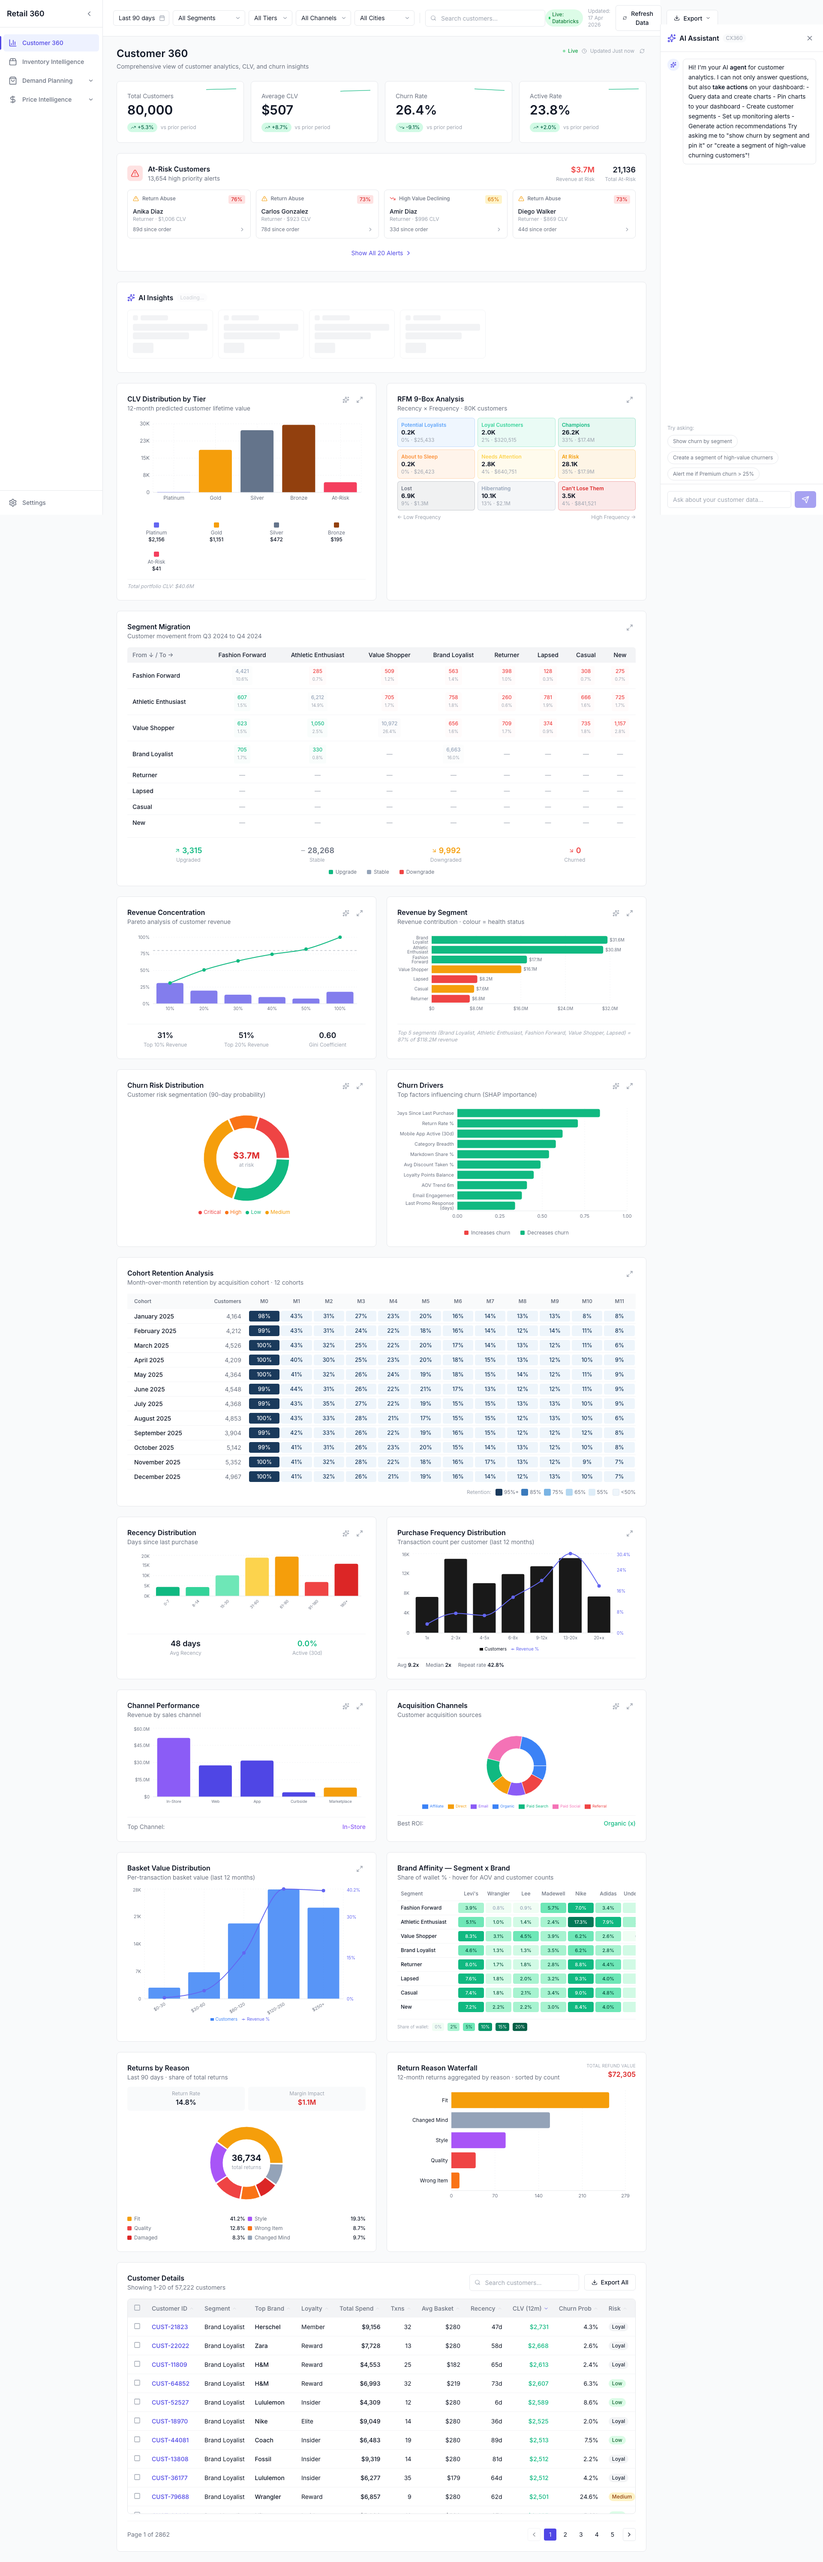
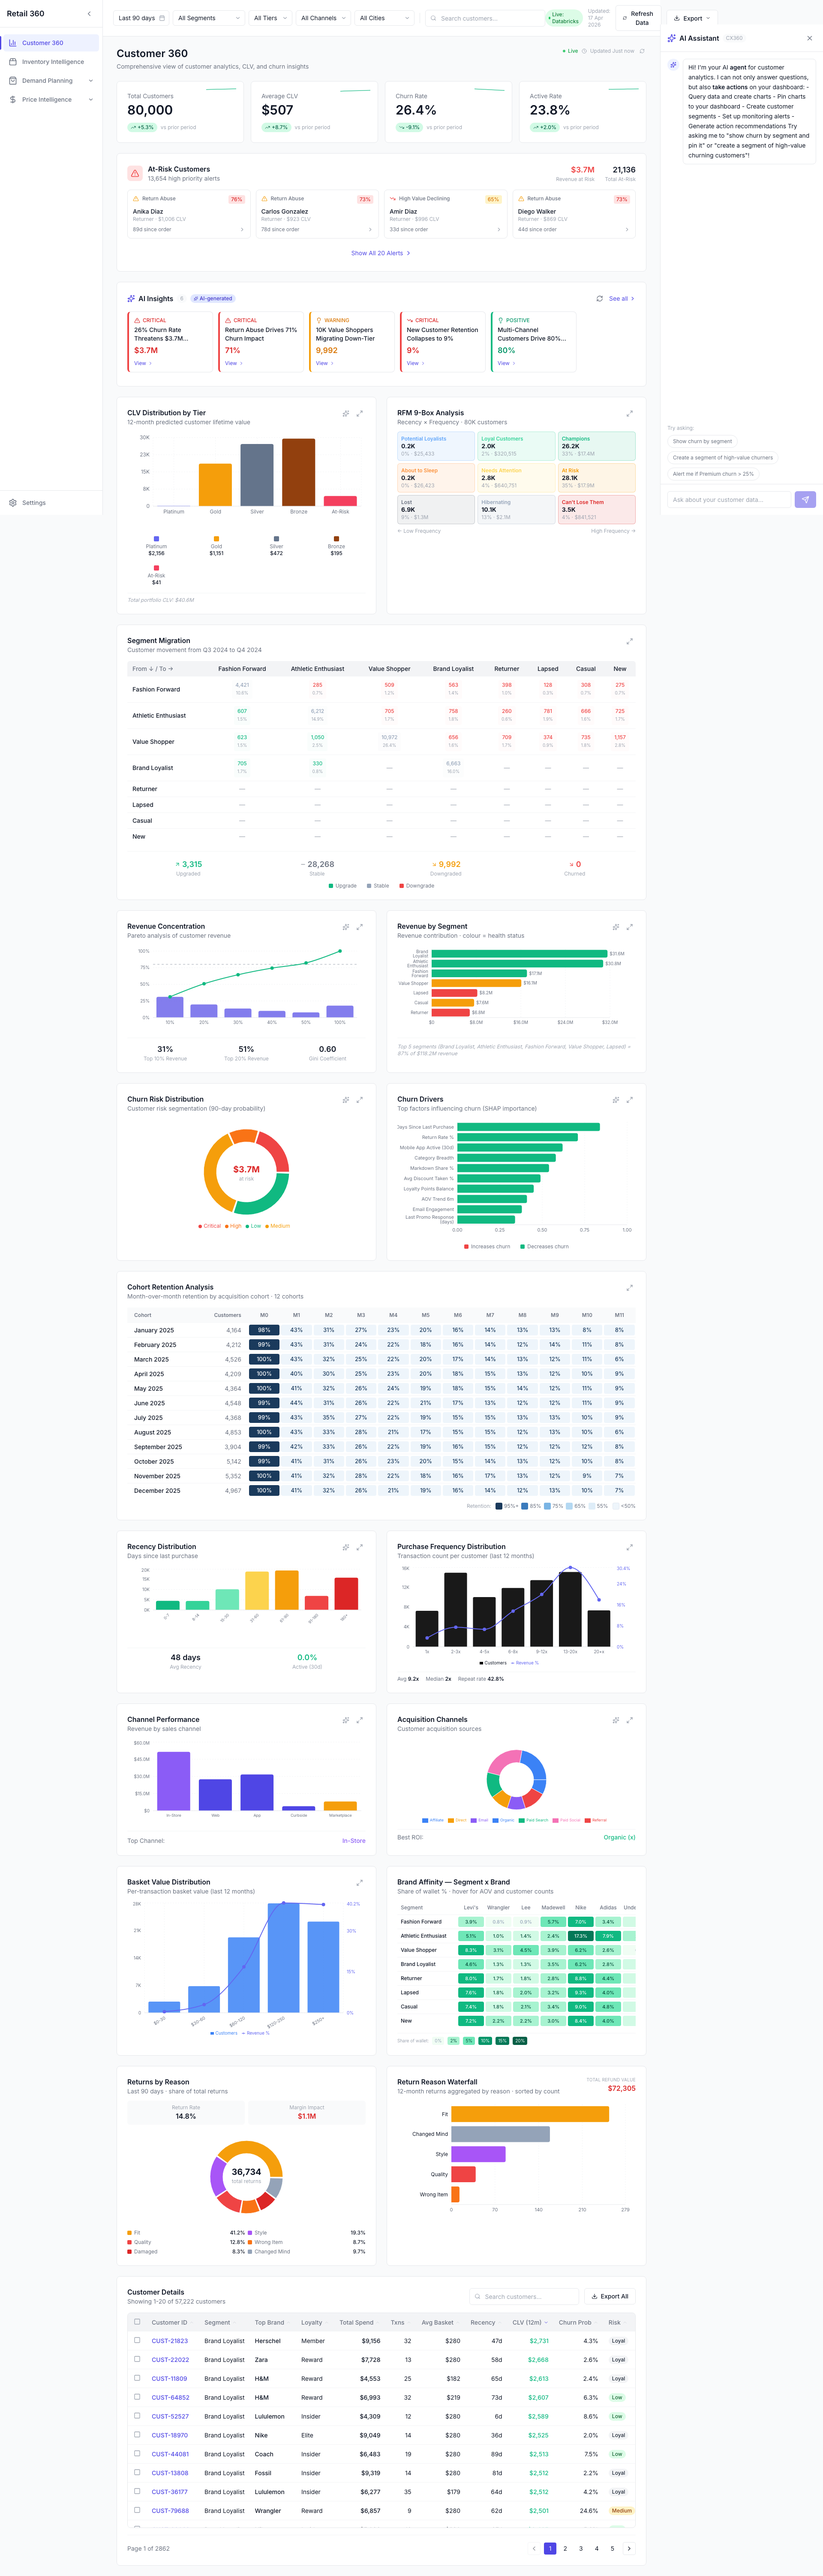
fix(apparel): eliminate ₹ leaks — regen insights, ColdstartCostOfMAPE + StockHealth insight tenant-aware

diff --git a/src/app/merchandise/cold-start/components/ColdstartCostOfMAPE.tsx b/src/app/merchandise/cold-start/components/ColdstartCostOfMAPE.tsx
@@ -13,12 +13,20 @@ import {
 import ChartCard from '@/app/components/charts/ChartCard';
 import type { ColdstartCostOfMAPE } from '@/app/lib/coldstart-types';
 import { formatMoneyPlainAuto, getLocaleAuto } from '@/app/lib/format-money';
+import { getRuntimeTenant } from '@/app/lib/tenant-runtime';
+import { useTenant } from '@/app/context/TenantContext';
 
 interface Props {
   data: ColdstartCostOfMAPE;
 }
 
 function formatINR(n: number): string {
+  const isApparel = getRuntimeTenant() === 'us_apparel';
+  if (isApparel) {
+    if (n >= 1e6) return `$${(n / 1e6).toFixed(2)}M`;
+    if (n >= 1e3) return `$${(n / 1e3).toFixed(1)}K`;
+    return `$${n.toLocaleString(getLocaleAuto())}`;
+  }
   if (n >= 1e7) return `₹${(n / 1e7).toFixed(1)}Cr`;
   if (n >= 1e5) return `₹${(n / 1e5).toFixed(1)}L`;
   return `₹${n.toLocaleString(getLocaleAuto())}`;
@@ -59,6 +67,7 @@ const CustomTooltip = ({
 };
 
 export default function ColdstartCostOfMAPE({ data }: Props) {
+  const { isApparel } = useTenant();
   const { naive_costs, champion_costs, savings, pr_projection, weekly_breakdown } = data;
   const rate = pr_projection.exchange_rate_inr_per_usd;
 
@@ -108,8 +117,8 @@ export default function ColdstartCostOfMAPE({ data }: Props) {
                 <tr className="bg-[var(--bg-secondary)] border-b border-[var(--border-default)]">
                   <th className="text-left px-3 py-2 text-[var(--text-secondary)] font-medium">Model</th>
                   <th className="text-right px-3 py-2 text-[var(--text-secondary)] font-medium">MAPE</th>
-                  <th className="text-right px-3 py-2 text-[var(--text-secondary)] font-medium">Cost (INR)</th>
-                  <th className="text-right px-3 py-2 text-[var(--text-secondary)] font-medium">Cost (USD)</th>
+                  <th className="text-right px-3 py-2 text-[var(--text-secondary)] font-medium">{isApparel ? 'Cost' : 'Cost (INR)'}</th>
+                  {!isApparel && <th className="text-right px-3 py-2 text-[var(--text-secondary)] font-medium">Cost (USD)</th>}
                 </tr>
               </thead>
               <tbody>
@@ -128,9 +137,11 @@ export default function ColdstartCostOfMAPE({ data }: Props) {
                     <td className={`px-3 py-2.5 text-right font-mono font-semibold ${row.colorClass}`}>
                       {formatINR(row.inr)}
                     </td>
-                    <td className="px-3 py-2.5 text-right font-mono text-[var(--text-secondary)]">
-                      {formatUSD(row.inr, rate)}
-                    </td>
+                    {!isApparel && (
+                      <td className="px-3 py-2.5 text-right font-mono text-[var(--text-secondary)]">
+                        {formatUSD(row.inr, rate)}
+                      </td>
+                    )}
                   </tr>
                 ))}
               </tbody>
@@ -199,7 +210,7 @@ export default function ColdstartCostOfMAPE({ data }: Props) {
         <ChartCard
           id="coldstart-cost-of-mape-projection"
           title="PR Projection"
-          subtitle={`Extrapolated to ₹100Cr revenue · @₹${rate}=$1`}
+          subtitle={isApparel ? 'Extrapolated to $1B revenue' : `Extrapolated to ₹100Cr revenue · @₹${rate}=$1`}
           height={470}
           exportFilename="coldstart_cost_mape_projection"
         >
@@ -211,7 +222,7 @@ export default function ColdstartCostOfMAPE({ data }: Props) {
                 ${(pr_projection.projected_savings_usd / 1000).toFixed(0)}K
               </p>
               <p className="text-emerald-600 text-[11px] mt-0.5">
-                {formatINR(pr_projection.projected_savings_inr)} USD
+                {formatINR(pr_projection.projected_savings_inr)}{!isApparel && ' USD'}
               </p>
             </div>
 

diff --git a/src/app/inventory/deep/stock-health/StockHealthDeepDiveContent.tsx b/src/app/inventory/deep/stock-health/StockHealthDeepDiveContent.tsx
@@ -2,6 +2,7 @@
 
 
 import { formatCrOrUsdMAuto } from '@/app/lib/format-money';
+import { useTenant } from '@/app/context/TenantContext';
 import { useState, useEffect, useMemo } from 'react';
 import Link from 'next/link';
 import { ArrowLeft, Download } from 'lucide-react';
@@ -155,6 +156,7 @@ export default function StockHealthDeepDiveContent({
   categoryHealth,
   overstock,
 }: Props) {
+  const { isApparel } = useTenant();
   const [isMounted, setIsMounted] = useState(false);
   const [selectedDateRange, setSelectedDateRange] = useState('90d');
   const [sortKey, setSortKey] = useState<keyof CategoryHealthItem>('osa_pct');
@@ -943,7 +945,10 @@ export default function StockHealthDeepDiveContent({
                 </div>
               </div>
               <Insight>
-                Dairy &amp; Frozen needs markdown TODAY — perishables expire within 3–5 days. Apparel at 30% markdown can recover {formatCrOrUsdMAuto(28.4)} with 78% sell-through. Grocery &amp; Staples requires no markdown — high-velocity stock clears in 2–3 weeks at full price.
+                {isApparel
+                  ? <>Women&apos;s Dresses need markdown TODAY — end-of-season clears within 3–5 weeks. Athletic Apparel at 30% markdown can recover {formatCrOrUsdMAuto(28.4)} with 78% sell-through. Core Basics require no markdown — replenishment velocity keeps stock clearing at full price.</>
+                  : <>Dairy &amp; Frozen needs markdown TODAY — perishables expire within 3–5 days. Apparel at 30% markdown can recover {formatCrOrUsdMAuto(28.4)} with 78% sell-through. Grocery &amp; Staples requires no markdown — high-velocity stock clears in 2–3 weeks at full price.</>
+                }
               </Insight>
             </section>
           </>
